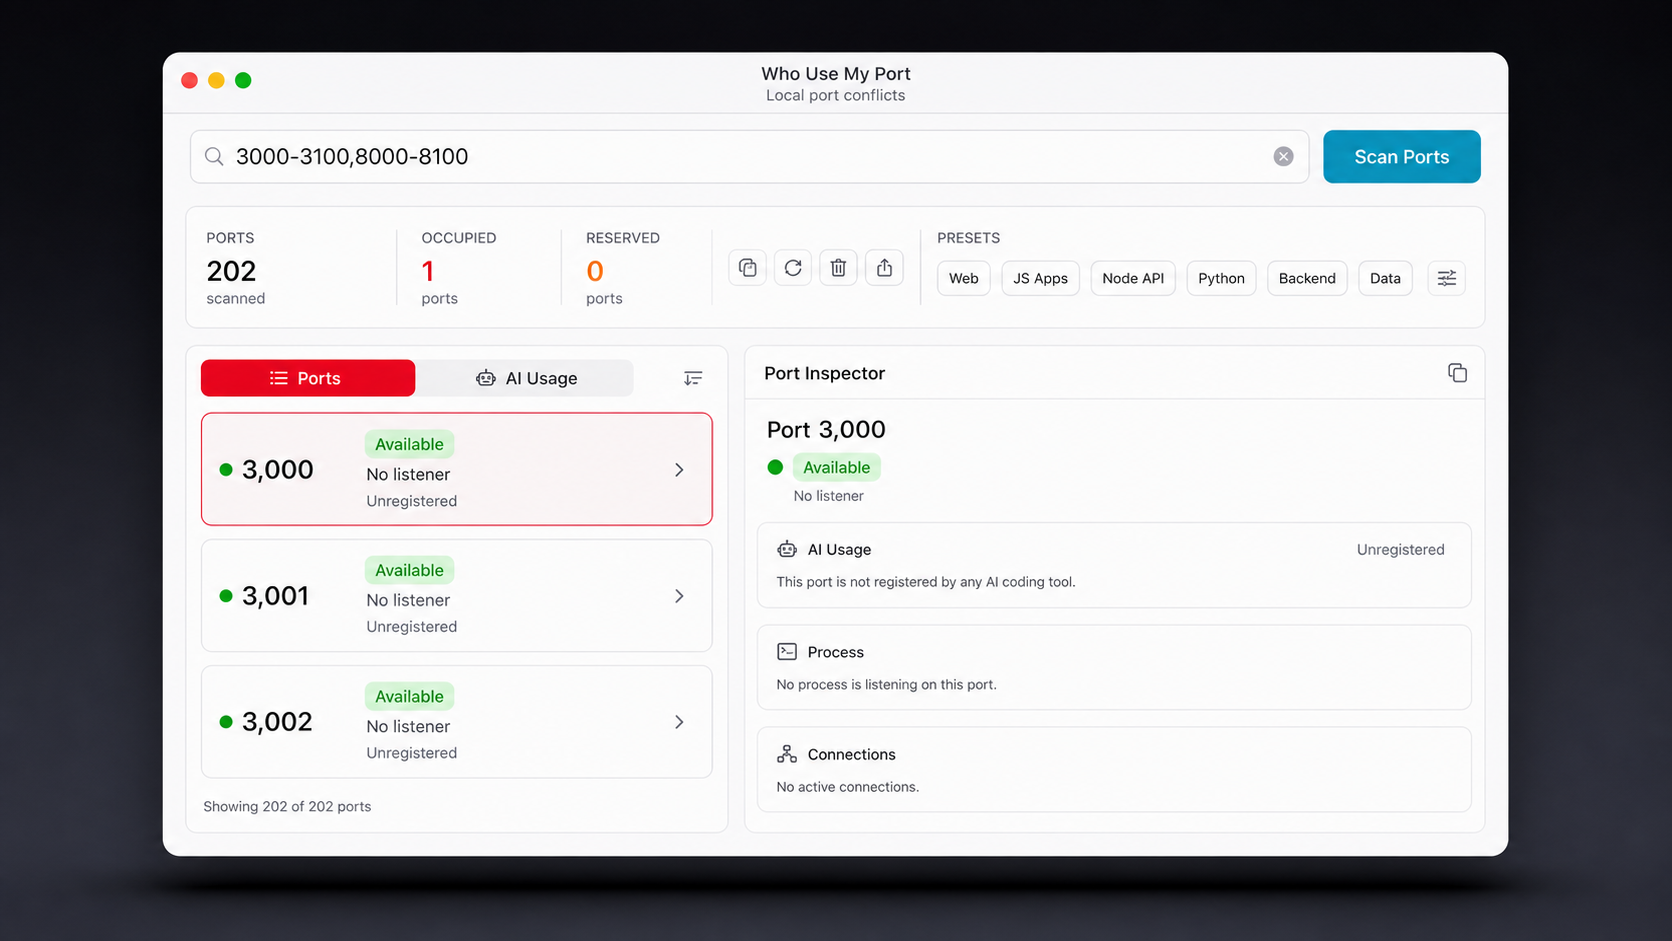
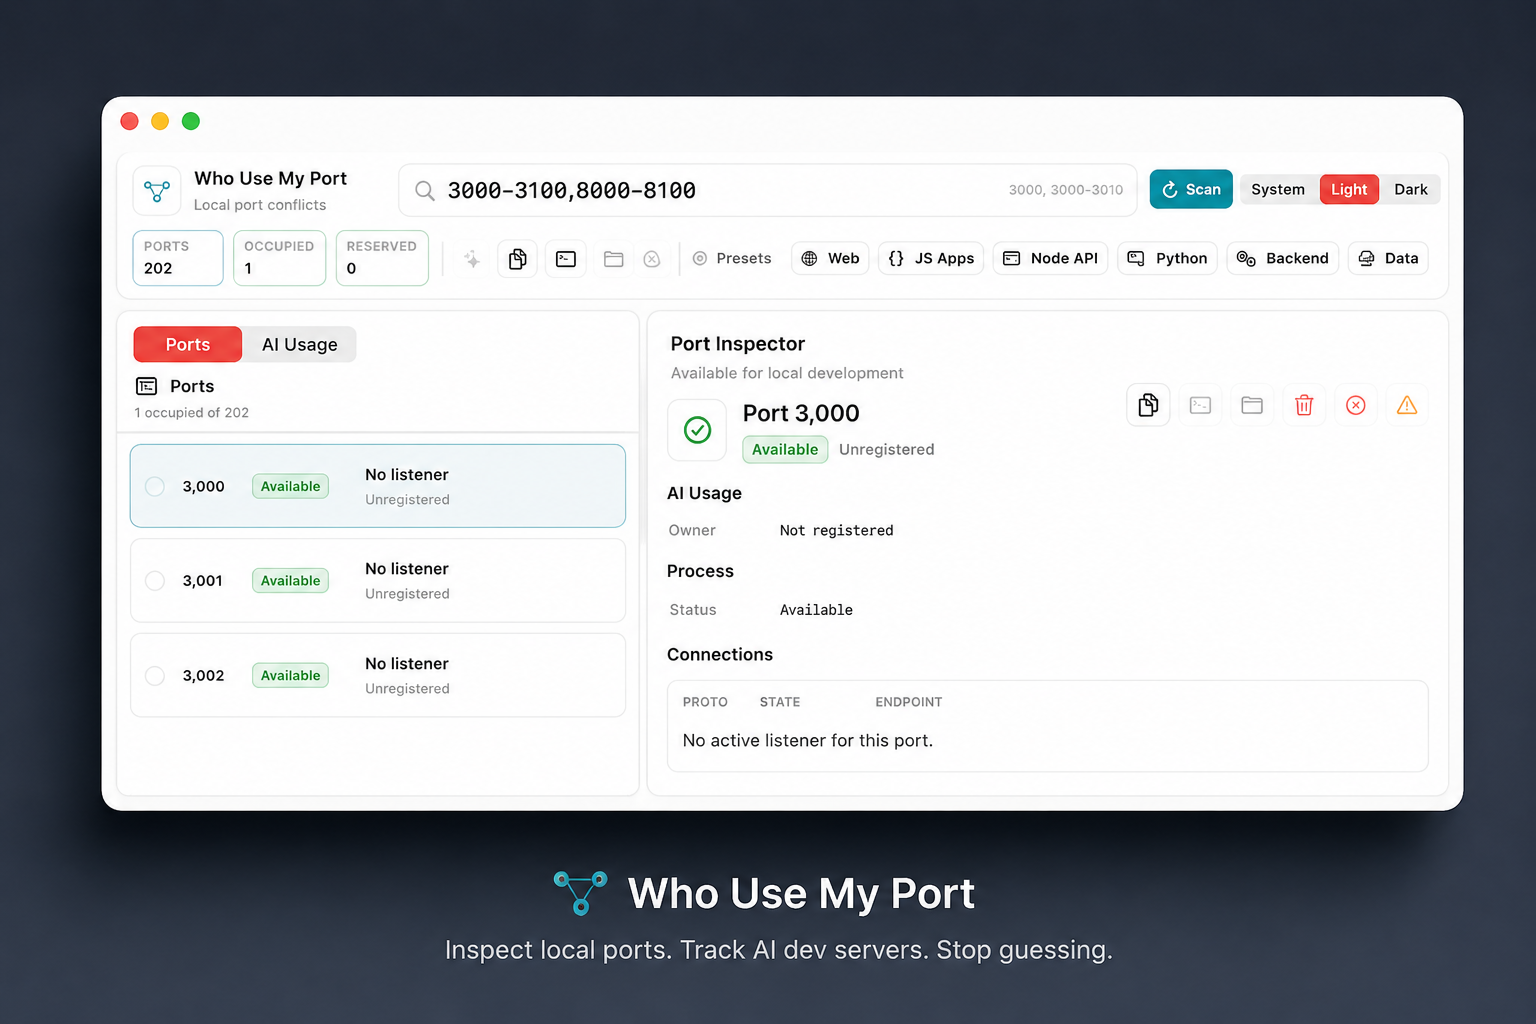
Add README product overview images

diff --git a/README.md b/README.md
@@ -1,10 +1,12 @@
 # Who Use My Port
 
-![Who Use My Port README hero](docs/assets/readme-hero.png)
+![Who Use My Port product overview](docs/assets/description.png)
 
 Who Use My Port is a macOS utility for finding which local process is using a port, inspecting process details, and cleaning up stale development-server ownership records.
 
 It is designed for developer machines where local services are frequently started by humans and AI coding tools. The app combines live system port data from macOS with optional `whoport` registrations so you can see not only what is listening, but also which tool/project claimed the port.
+
+![Who Use My Port app preview](docs/assets/readme-hero.png)
 
 The top-right macOS entry point is a menu bar item / status bar item. In SwiftUI this is implemented with `MenuBarExtra`; it is not a macOS widget.
 